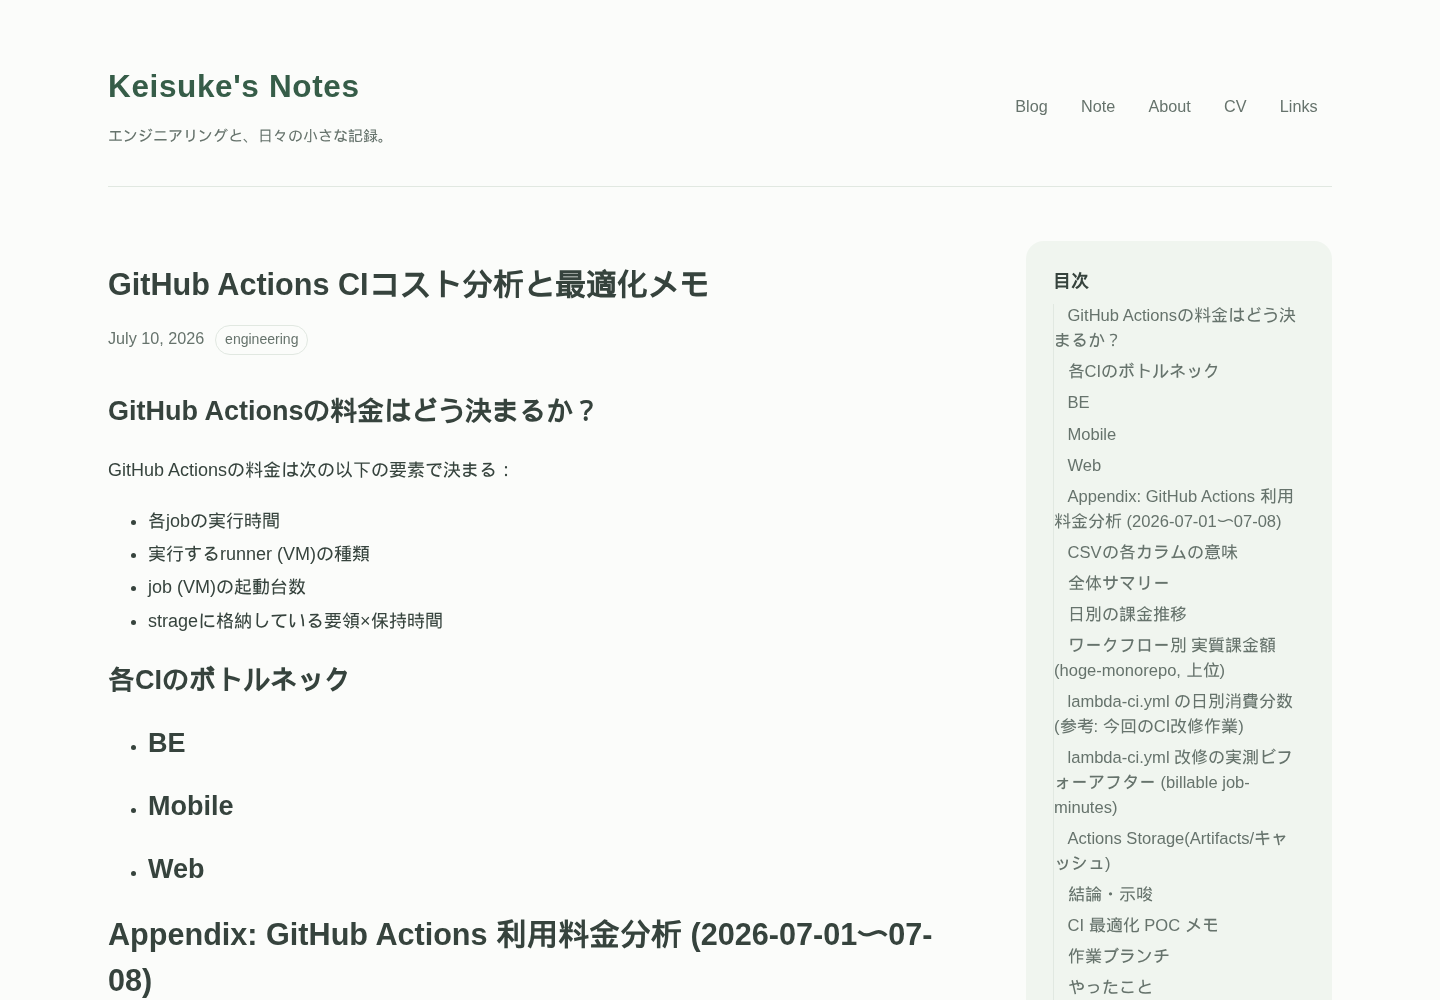
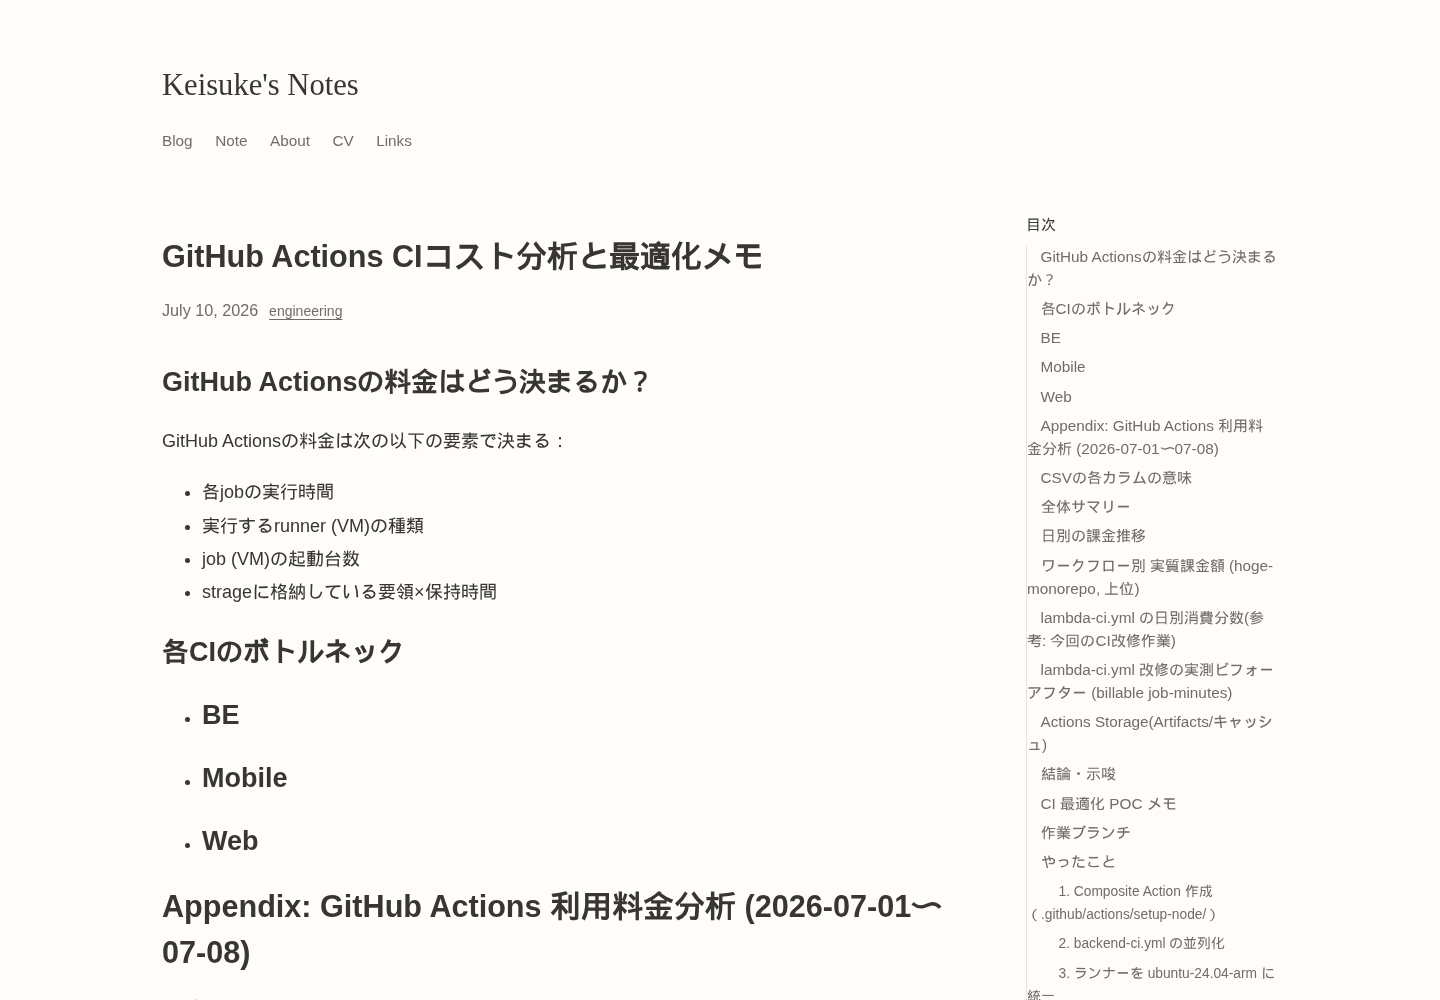
Simplify blog styling and refresh screenshots

diff --git a/src/styles/global.css b/src/styles/global.css
@@ -1,13 +1,12 @@
 :root {
-  --bg: #fbfcfa;
-  --fg: #36433d;
-  --muted: #66736c;
-  --rule: #e1e8e1;
-  --surface: #f0f5ef;
-  --link: #356750;
-  --link-hover: #214b38;
-  --title: #365d48;
-  --max-width: 72rem;
+  --bg: #fefdfb;
+  --fg: #383633;
+  --muted: #716d66;
+  --rule: #e6e3de;
+  --surface: #f3f1ed;
+  --link: #465f75;
+  --link-hover: #273b4c;
+  --max-width: 66rem;
   color-scheme: light;
 }
 
@@ -36,25 +35,18 @@ body {
 }
 
 .site-title {
-  display: flex;
-  align-items: center;
-  justify-content: space-between;
-  flex-wrap: wrap;
-  gap: 1.25rem;
   margin-bottom: 3rem;
-  padding-bottom: 2rem;
-  border-bottom: 1px solid var(--rule);
 }
 
 .site-title h1 {
   margin: 0;
-  font-size: 1.75rem;
-  font-weight: 600;
-  letter-spacing: 0.02em;
+  font-family: Georgia, 'Times New Roman', serif;
+  font-size: 1.7rem;
+  font-weight: normal;
 }
 
 .site-title h1 a {
-  color: var(--title);
+  color: var(--fg);
   text-decoration: none;
 }
 
@@ -62,30 +54,24 @@ body {
   color: var(--link-hover);
 }
 
-.site-description {
-  margin: 0.65rem 0 0;
-  color: var(--muted);
-  font-size: 0.85rem;
-}
-
 nav.site-nav {
   display: flex;
   flex-wrap: wrap;
-  gap: 0.25rem;
-  font-size: 0.9rem;
+  gap: 1.25rem;
+  margin-top: 0.75rem;
+  font-size: 0.85rem;
 }
 
 nav.site-nav a {
   color: var(--muted);
   text-decoration: none;
-  padding: 0.4rem 0.8rem;
-  border-radius: 2rem;
+  padding: 0.25rem 0;
 }
 
 nav.site-nav a:hover,
 nav.site-nav a[aria-current='page'] {
-  color: var(--link);
-  background: var(--surface);
+  color: var(--fg);
+  text-decoration: underline;
 }
 
 a {
@@ -121,20 +107,18 @@ h1, h2, h3 {
 }
 
 .sidebar {
-  width: 17rem;
+  width: 14rem;
   flex-shrink: 0;
   order: 2;
   color: var(--muted);
-  font-size: 0.92rem;
-  padding: 1.5rem;
-  border-radius: 1rem;
-  background: var(--surface);
+  font-size: 0.85rem;
   overflow-wrap: anywhere;
 }
 
 .sidebar h2 {
   color: var(--fg);
-  font-size: 1rem;
+  font-size: 0.85rem;
+  font-weight: normal;
   margin: 1.5rem 0 0.5rem;
 }
 
@@ -174,10 +158,10 @@ ul.toc li.toc-depth-3 a {
 }
 
 .year-marker {
-  font-weight: 600;
-  color: var(--title);
-  font-size: 1.05rem;
-  margin: 2.5rem 0 0.75rem;
+  font-weight: normal;
+  color: var(--muted);
+  font-size: 0.9rem;
+  margin: 2.25rem 0 0.6rem;
 }
 
 .year-marker:first-child {
@@ -192,8 +176,7 @@ ul.post-list {
 
 ul.post-list li {
   line-height: 1.8;
-  padding: 0.85rem 0;
-  border-bottom: 1px solid var(--rule);
+  padding: 0.45rem 0;
   overflow-wrap: anywhere;
 }
 
@@ -207,7 +190,7 @@ ul.post-list a:hover {
 
 ul.post-list time {
   color: var(--muted);
-  font-size: 0.9rem;
+  font-size: 0.8rem;
 }
 
 article.post {
@@ -229,17 +212,13 @@ article.post h1 {
 .category-tag {
   display: inline-block;
   margin-left: 0.6rem;
-  padding: 0.05rem 0.5rem;
-  border: 1px solid var(--rule);
-  border-radius: 1rem;
   font-size: 0.78rem;
   color: var(--muted);
-  text-decoration: none;
+  text-decoration: underline;
 }
 
 .category-tag:hover {
   color: var(--link);
-  border-color: var(--link);
 }
 
 ul.category-list {
@@ -347,9 +326,9 @@ article.post pre {
   padding: 0.6rem 0.8rem;
   overflow-x: auto;
   font-size: 0.85rem;
-  border-radius: 0.65rem;
+  border-radius: 3px;
   border: 1px solid var(--rule);
-  background-color: #f0f5ef !important;
+  background-color: #f3f1ed !important;
 }
 
 article.post code:not(pre code) {
@@ -388,6 +367,8 @@ footer.site-footer {
   .sidebar {
     width: 100%;
     order: 2;
+    padding-top: 1.5rem;
+    border-top: 1px solid var(--rule);
   }
 
   .main-col {
@@ -398,14 +379,13 @@ footer.site-footer {
 
 @media (prefers-color-scheme: dark) {
   :root {
-    --bg: #1c2420;
-    --fg: #dce5de;
-    --muted: #acb9af;
-    --rule: #39473e;
-    --surface: #26312a;
-    --link: #a0ceb0;
-    --link-hover: #d1ebd9;
-    --title: #b2d5bd;
+    --bg: #232220;
+    --fg: #e3dfd9;
+    --muted: #b3ada4;
+    --rule: #44413c;
+    --surface: #302e2a;
+    --link: #a9c2d6;
+    --link-hover: #d7e7f3;
     color-scheme: dark;
   }
 }
